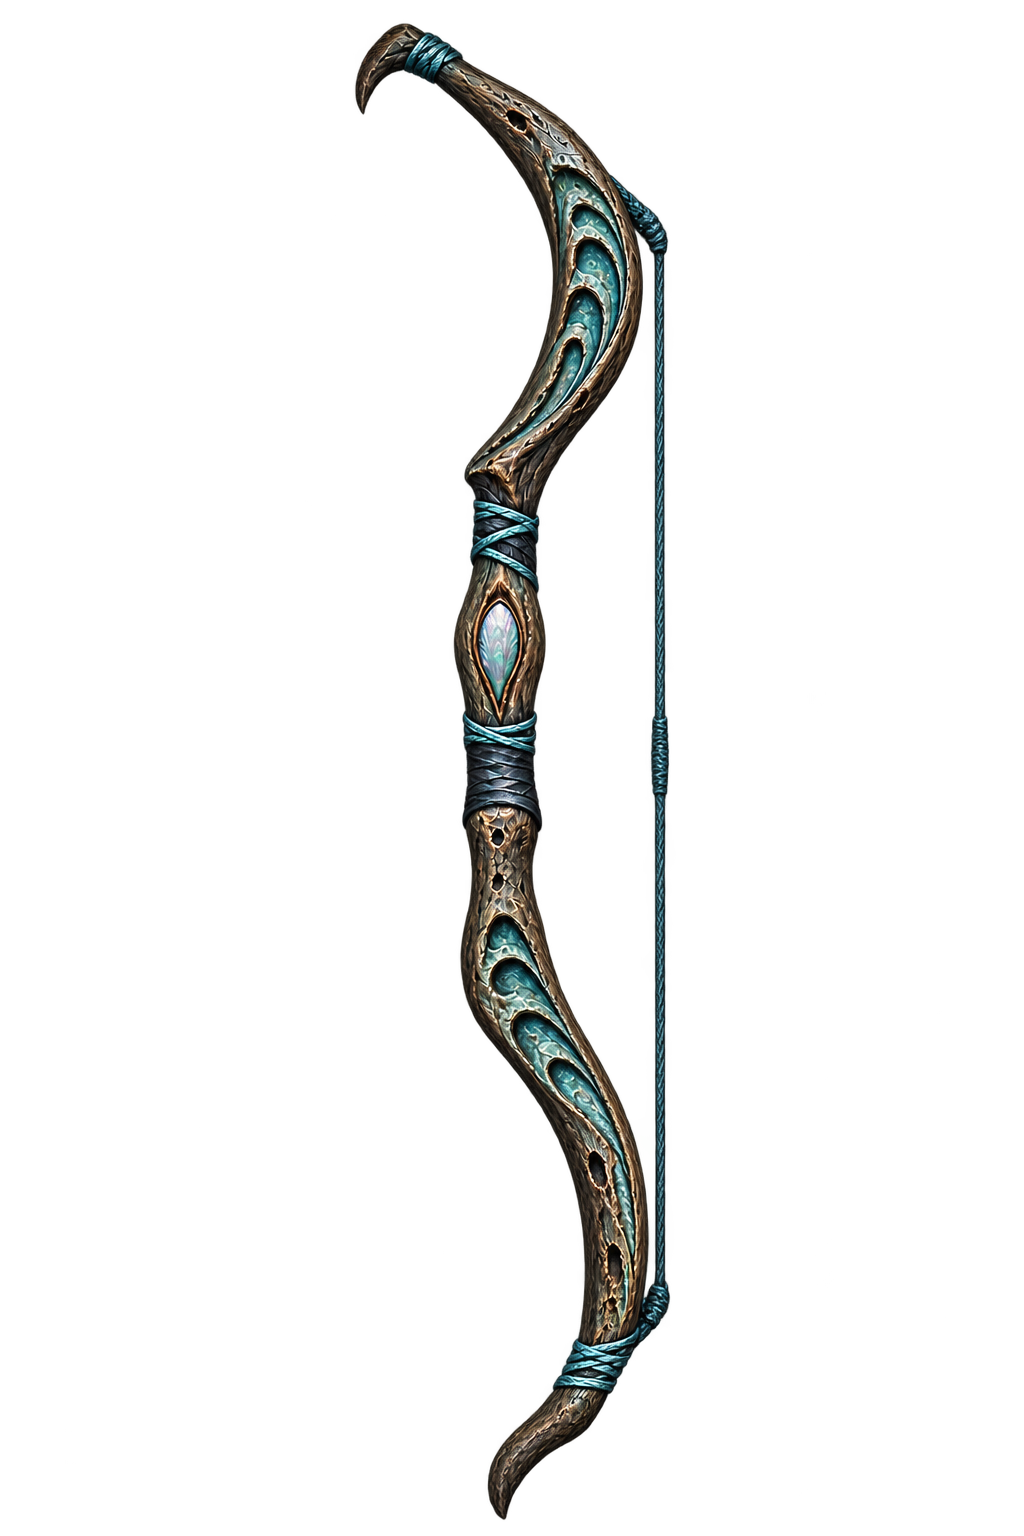
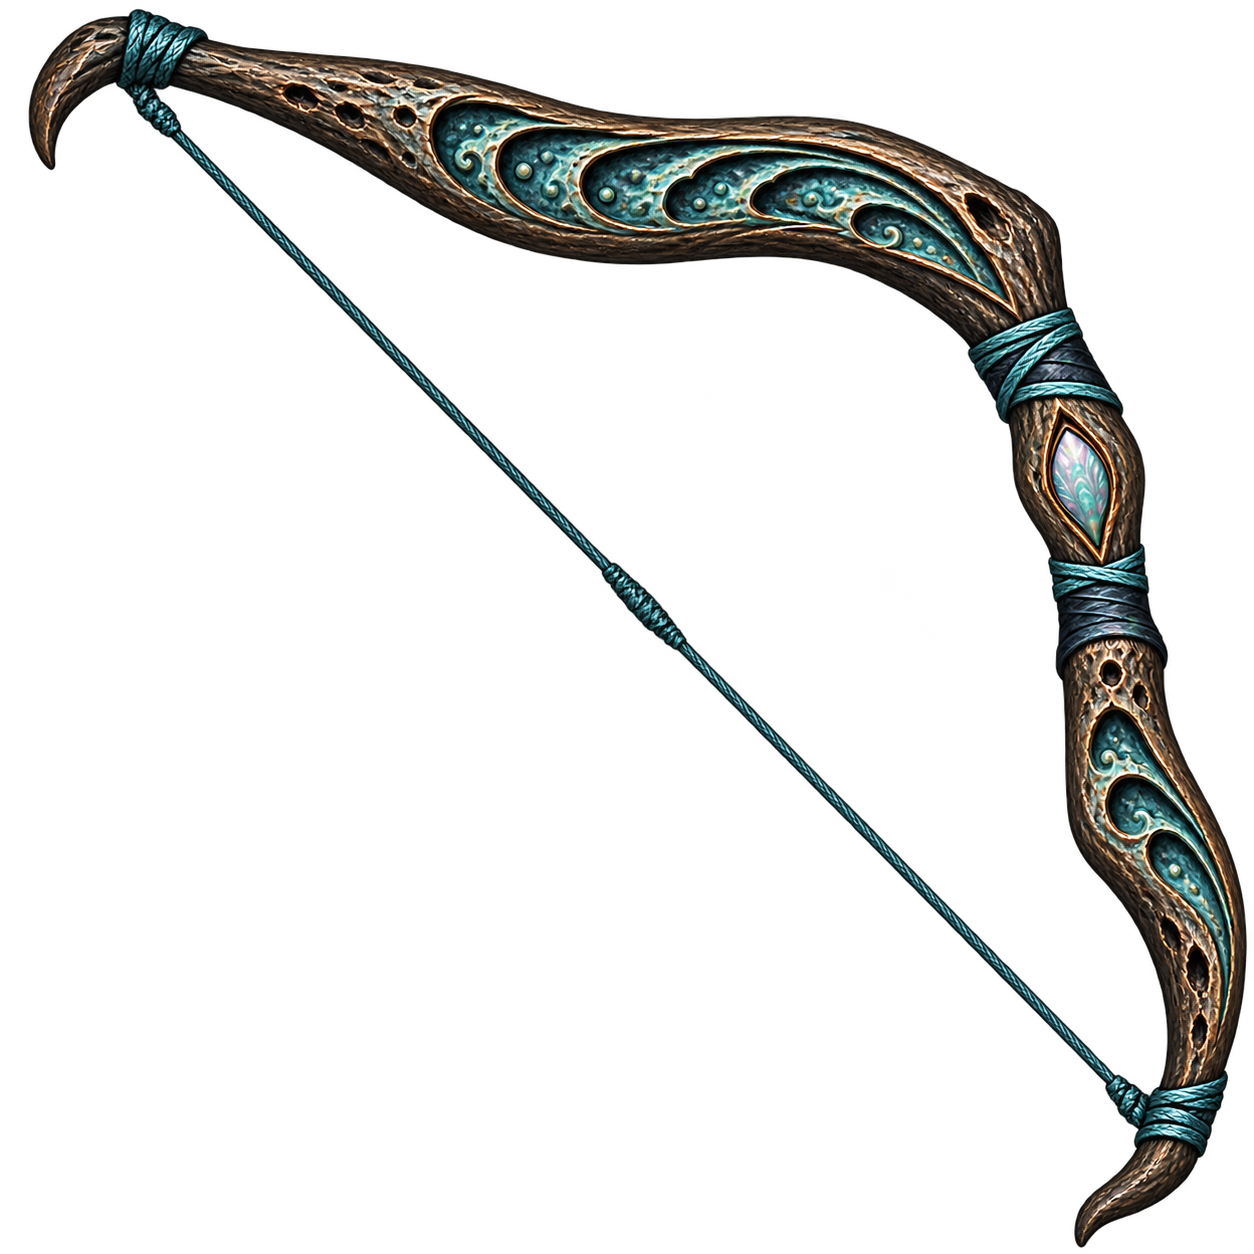
更新

diff --git a/src/wiki.css b/src/wiki.css
@@ -21,21 +21,21 @@ body.wiki-page #hud {
 }
 
 .wiki-shell {
-  width: min(100%, 920px);
+  width: min(100%, 1180px);
   min-height: 100dvh;
   margin: 0 auto;
-  padding: max(18px, env(safe-area-inset-top)) 16px calc(36px + env(safe-area-inset-bottom));
+  padding: max(12px, env(safe-area-inset-top)) 16px calc(24px + env(safe-area-inset-bottom));
   color: #eef2ff;
 }
 
-.wiki-header { display: flex; align-items: flex-start; gap: 12px; margin: 2px 0 18px; }
+.wiki-header { display: flex; align-items: flex-start; gap: 10px; margin: 0 0 10px; }
 .wiki-heading { min-width: 0; }
 .wiki-back {
   display: grid;
   place-items: center;
   flex: 0 0 auto;
-  width: 38px;
-  height: 38px;
+  width: 34px;
+  height: 34px;
   border: 1px solid var(--wiki-border);
   border-radius: 11px;
   background: rgba(20, 28, 47, .76);
@@ -46,22 +46,22 @@ body.wiki-page #hud {
 }
 .wiki-back:active { transform: scale(.95); }
 .wiki-kicker { color: #9daed2; font-size: 11px; font-weight: 700; letter-spacing: .12em; }
-.wiki-header h1 { margin: 2px 0 0; font-size: clamp(24px, 5vw, 34px); line-height: 1.2; }
-.wiki-summary { margin: 7px 0 0; color: rgba(219, 229, 255, .72); font-size: 13px; line-height: 1.5; }
-.wiki-breadcrumb { display: flex; flex-wrap: wrap; gap: 8px; margin: 0 0 20px; color: #aebad5; font-size: 12px; }
+.wiki-header h1 { margin: 1px 0 0; font-size: clamp(22px, 4vw, 30px); line-height: 1.2; }
+.wiki-summary { margin: 4px 0 0; color: rgba(219, 229, 255, .72); font-size: 13px; line-height: 1.4; }
+.wiki-breadcrumb { display: flex; flex-wrap: wrap; gap: 6px; margin: 0 0 12px; color: #aebad5; font-size: 12px; }
 .wiki-breadcrumb a, .wiki-bottom-link a, .wiki-article a { color: #afc9ff; }
-.wiki-planning-note { margin: 0 0 18px; padding: 10px 12px; border: 1px solid rgba(224, 188, 105, .3); border-radius: 8px; background: rgba(119, 83, 26, .16); color: #e9d7af; font-size: 12px; line-height: 1.5; }
+.wiki-planning-note { margin: 0 0 12px; padding: 8px 10px; border: 1px solid rgba(224, 188, 105, .3); border-radius: 8px; background: rgba(119, 83, 26, .16); color: #e9d7af; font-size: 12px; line-height: 1.5; }
 
-.wiki-directory-section { margin: 0 0 30px; }
-.wiki-directory-section h2 { margin: 0; font-size: 20px; }
-.wiki-directory-section > p { margin: 5px 0 12px; color: #aebad5; font-size: 12px; }
-.wiki-directory-grid { display: grid; grid-template-columns: repeat(2, minmax(0, 1fr)); gap: 10px; }
+.wiki-directory-section { margin: 0 0 18px; }
+.wiki-directory-section h2 { margin: 0; font-size: 18px; }
+.wiki-directory-section > p { margin: 3px 0 8px; color: #aebad5; font-size: 12px; }
+.wiki-directory-grid { display: grid; grid-template-columns: repeat(3, minmax(0, 1fr)); gap: 8px; }
 .wiki-directory-link {
   position: relative;
   display: grid;
-  gap: 5px;
-  min-height: 82px;
-  padding: 14px 36px 14px 14px;
+  gap: 3px;
+  min-height: 62px;
+  padding: 9px 30px 9px 11px;
   border: 1px solid var(--wiki-border);
   border-radius: 12px;
   background: linear-gradient(145deg, rgba(38, 54, 91, .85), rgba(19, 28, 49, .9));
@@ -69,37 +69,37 @@ body.wiki-page #hud {
   text-decoration: none;
 }
 .wiki-directory-link:hover, .wiki-directory-link:focus-visible { border-color: #91b3ff; background: #263c6b; }
-.wiki-directory-link strong { font-size: 15px; }
+.wiki-directory-link strong { font-size: 14px; }
 .wiki-directory-link > span:not(.wiki-directory-arrow) { color: #afbdd7; font-size: 12px; line-height: 1.4; }
-.wiki-directory-arrow { position: absolute; right: 14px; top: 14px; color: #a9c6ff; font-size: 18px; }
+.wiki-directory-arrow { position: absolute; right: 10px; top: 9px; color: #a9c6ff; font-size: 16px; }
 .wiki-loading { color: #b6c5e2; font-size: 14px; }
 
-.wiki-article { max-width: 100%; color: #d9e1f2; font-size: 14px; line-height: 1.7; overflow-wrap: anywhere; }
+.wiki-article { max-width: 100%; color: #d9e1f2; font-size: 14px; line-height: 1.55; overflow-wrap: anywhere; }
 .wiki-article h2, .wiki-article h3, .wiki-article h4 { color: #f2f5ff; line-height: 1.35; }
-.wiki-article h2 { margin: 30px 0 10px; padding-bottom: 7px; border-bottom: 1px solid var(--wiki-border); font-size: 21px; }
-.wiki-article h3 { margin: 22px 0 8px; font-size: 17px; }
-.wiki-article h4 { margin: 17px 0 7px; font-size: 15px; }
-.wiki-article p { margin: 10px 0; }
-.wiki-article ul, .wiki-article ol { margin: 9px 0 15px; padding-left: 24px; }
-.wiki-article li { margin: 5px 0; }
+.wiki-article h2 { margin: 20px 0 7px; padding-bottom: 5px; border-bottom: 1px solid var(--wiki-border); font-size: 19px; }
+.wiki-article h3 { margin: 15px 0 5px; font-size: 16px; }
+.wiki-article h4 { margin: 12px 0 4px; font-size: 15px; }
+.wiki-article p { margin: 7px 0; }
+.wiki-article ul, .wiki-article ol { margin: 6px 0 10px; padding-left: 22px; }
+.wiki-article li { margin: 3px 0; }
 .wiki-article li > p { margin: 3px 0; }
 .wiki-article blockquote { margin: 12px 0; padding: 3px 14px; border-left: 3px solid #668bdd; background: rgba(84, 118, 187, .12); }
 .wiki-article code { padding: 1px 4px; border-radius: 4px; background: #252d40; color: #f1ca98; font-size: .9em; }
 .wiki-article pre { max-width: 100%; overflow-x: auto; padding: 12px; border-radius: 8px; background: #131b2d; }
 .wiki-article pre code { padding: 0; background: none; }
 .wiki-article hr { border: 0; border-top: 1px solid var(--wiki-border); }
-.wiki-table-scroll { max-width: 100%; margin: 14px 0 20px; overflow-x: auto; border: 1px solid var(--wiki-border); border-radius: 9px; }
+.wiki-table-scroll { max-width: 100%; margin: 9px 0 13px; overflow-x: auto; border: 1px solid var(--wiki-border); border-radius: 9px; }
 .wiki-article table { width: 100%; min-width: 550px; border-collapse: collapse; font-size: 12px; line-height: 1.45; }
-.wiki-article th, .wiki-article td { padding: 9px 10px; border-bottom: 1px solid var(--wiki-border); text-align: left; vertical-align: top; }
+.wiki-article th, .wiki-article td { padding: 6px 8px; border-bottom: 1px solid var(--wiki-border); text-align: left; vertical-align: top; }
 .wiki-article th { background: #273655; color: #fff; white-space: nowrap; }
 .wiki-article tr:nth-child(even) td { background: rgba(85, 111, 160, .09); }
-.wiki-bottom-link { grid-column: 1 / -1; margin: 28px 0 0; font-size: 13px; }
+.wiki-bottom-link { grid-column: 1 / -1; margin: 18px 0 0; font-size: 13px; }
 
-.wiki-content { display: grid; grid-template-columns: repeat(2, minmax(0, 1fr)); gap: 12px; }
+.wiki-content { display: grid; grid-template-columns: repeat(3, minmax(0, 1fr)); gap: 8px; }
 .wiki-card {
   position: relative;
   min-width: 0;
-  padding: 14px;
+  padding: 10px;
   overflow: hidden;
   border: 1px solid var(--card-border, rgba(185, 205, 255, .3));
   border-radius: 14px;
@@ -110,11 +110,11 @@ body.wiki-page #hud {
 .wiki-card-head { position: relative; z-index: 1; display: flex; justify-content: space-between; align-items: center; gap: 5px; }
 .wiki-tag { color: var(--tag-color, #b9cbff); font-size: 11px; font-weight: 800; }
 .wiki-status { padding: 2px 5px; border: 1px solid rgba(143,255,191,.22); border-radius: 4px; background: rgba(62,163,105,.13); color: #a8f4c5; font-size: 9px; font-weight: 700; }
-.wiki-card-accent { position: absolute; top: 37px; right: 13px; color: var(--accent-color, rgba(210,225,255,.45)); font-size: 30px; opacity: .9; }
-.wiki-card h2 { position: relative; z-index: 1; margin: 10px 0 6px; color: #fff; font-size: 18px; line-height: 1.3; }
-.wiki-card p { position: relative; z-index: 1; margin: 0 0 9px; color: rgba(239,243,255,.8); font-size: 12px; line-height: 1.5; }
-.wiki-stats { position: relative; z-index: 1; display: grid; grid-template-columns: repeat(2, minmax(0, 1fr)); gap: 6px; margin: 8px 0 0; }
-.wiki-stat { min-width: 0; padding: 6px; border: 1px solid rgba(255,255,255,.08); border-radius: 6px; background: rgba(4,8,18,.2); }
+.wiki-card-accent { position: absolute; top: 29px; right: 10px; color: var(--accent-color, rgba(210,225,255,.45)); font-size: 26px; opacity: .9; }
+.wiki-card h2 { position: relative; z-index: 1; margin: 6px 0 4px; color: #fff; font-size: 16px; line-height: 1.3; }
+.wiki-card p { position: relative; z-index: 1; margin: 0 0 6px; color: rgba(239,243,255,.8); font-size: 12px; line-height: 1.4; }
+.wiki-stats { position: relative; z-index: 1; display: grid; grid-template-columns: repeat(2, minmax(0, 1fr)); gap: 4px; margin: 6px 0 0; }
+.wiki-stat { min-width: 0; padding: 5px; border: 1px solid rgba(255,255,255,.08); border-radius: 6px; background: rgba(4,8,18,.2); }
 .wiki-stat dt { color: rgba(224,234,255,.65); font-size: 10px; }
 .wiki-stat dd { margin: 2px 0 0; color: #f2f5ff; font-size: 12px; font-weight: 700; line-height: 1.4; overflow-wrap: anywhere; }
 .tone-enemy { --card-top: #572936; --card-bottom: #25151e; --card-border: rgba(255,142,162,.4); --tag-color: #ffb2c2; --accent-color: #ff8ea6; }
@@ -126,6 +126,10 @@ body.wiki-page #hud {
 .tone-energy { --card-top: #5a4b1e; --card-bottom: #2d250f; --card-border: rgba(255,221,120,.44); --tag-color: #ffe3a1; --accent-color: #ffd56b; }
 .tone-buff { --card-top: #563477; --card-bottom: #29183e; --card-border: rgba(230,160,255,.45); --tag-color: #f0c4ff; --accent-color: #e5a4ff; }
 .tone-trap { --card-top: #4b3c3c; --card-bottom: #241f24; --card-border: rgba(209,187,193,.42); --tag-color: #e6d7db; --accent-color: #d2b9c0; }
+
+@media (max-width: 850px) {
+  .wiki-directory-grid, .wiki-content { grid-template-columns: repeat(2, minmax(0, 1fr)); }
+}
 
 @media (max-width: 620px) {
   .wiki-directory-grid, .wiki-content { grid-template-columns: 1fr; }
